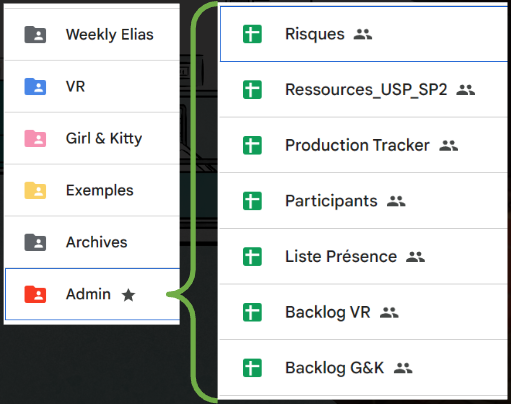
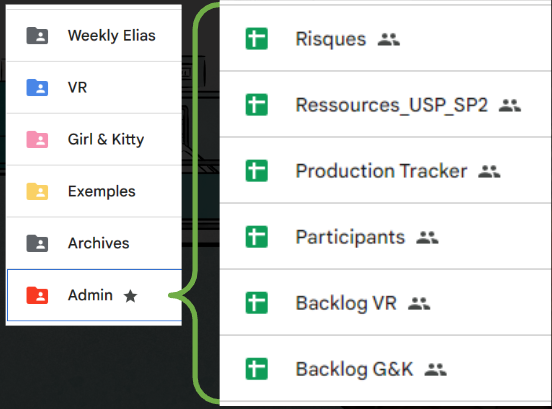
Update Prod. blog

diff --git a/_posts/2024-01-26-ProjectProducing.md b/_posts/2024-01-26-ProjectProducing.md
@@ -36,7 +36,7 @@ The organization chart is the following
 The hierarchy was layed out from left to right. The stakeholders to whom we were accountable are placed on the left. Since I was producer, I was responsible for presenting the work done by the teams to them. Then, for each project, a product owner was nominated per project to follow the work and define the tasks according to the general objectives previously defined. The programmers were dispatched on the two projects according to necessities. The game artists were assigned to one project or the other. For the audio engineering section, we had two leads that would organize and dispatch work for both projects.
 
 
-## Production Tools
+## Production tools
 This part of the blog is and overview and brief exposition of the tools we used for the game's production, it is categorized by domain.
 ### Programming tools
 #### Unreal Engine 5.3
@@ -77,7 +77,7 @@ I also had to create the accounts and everything related to user identification.
 Then, Fabian created a script to compress and send files to the NAS with a [cronjob](https://kubernetes.io/docs/concepts/workloads/controllers/cron-jobs/). The details of his implementation are explained [here](https://blog.stowy.ch/posts/devops-specialisation-projects/#backups).
 
 ### Audio tools
-#### Pro Tools
+#### Pro tools
 For the production of sounds, the audio section principally used [Pro tools](https://www.avid.com/pro-tools) and divers sound banks or personal recordings.
 #### Wwise
 To facilitate the integration to UnrealEngine they used [Wwise](https://www.audiokinetic.com/en/products/wwise/) and, since we couldn't have perforce, transmitted their work to us with a USB key.
@@ -113,9 +113,11 @@ For the project VR, the artists used [Substance Painter](https://www.adobe.com/p
 
 For the project Girl & Kitty, the texturing was done in Unreal Engine 5, for more information about that process you can read the blog post made about it [here](https://sstyles93.github.io/blog/posts/UnrealStylizedShaders/#contextualization)
 
-## Organization Tools
+## Organization tools
 This part is and overview and exposition of the tools we used for the project's organization.
-### Google Drive
+### Google drive
+Since the project was established with approximately 30 people, we had to be able to all access and exchange files. For that reason we used Google Drive. Since it was a major "tool" we used, I wanted to expose its structure and content.
+
 #### Weekly
 One of the utilities of having a common drive was to store google slides. Since every week I had to present the general improvements done on the project, it was useful to be able to store our slides in a common folder. In general the product owners or myself were responsible for their creation.
 
@@ -128,33 +130,69 @@ Each project had its own folder with diverse documents inside. Going from techni
 
 ![]({{ site.baseurl }}/assets/images/projectproducing/VR_Folder.PNG "VR Folder and content"){: width="100%"} _VR Folder and content_ | ![]({{ site.baseurl }}/assets/images/projectproducing/GK_Folder.PNG "GK Folder and content"){: width="100%"} _GK Folder and content_
 
-#### Example Folder & Archives 
+#### Example folder & archives 
 These folder contained all the documents received from William Marié to help us organize the production, pitch examples we used as references and all documents that were outdated.
 
 ![]({{ site.baseurl }}/assets/images/projectproducing/Example_Folder.PNG "Example Folder"){: width="100%"} _Example Folder_ | ![]({{ site.baseurl }}/assets/images/projectproducing/Archives_Folder.PNG "Archives Folder"){: width="100%"} _Archives Folder_
 
 #### Admin folder
-This folder was probably the most used by the product owners and myself. It contained all the documents related to the two projects and their
+This folder was probably the most used by the product owners and myself. It contained all the documents related to the two projects and their management.
 
 ![]({{ site.baseurl }}/assets/images/projectproducing/Admin_Folder.PNG "Admin Folder"){: width="100%"} _Admin Folder_
 
+The different documents were the following:
+- Risks: Potential problems we could have encountered and the way we could ideally fix them.
+- Resources: A spreadsheet where team members could input their availability.
+- Production Tracker: Principally use by myself to set the milestones and global tasks.
+- Participants: A list of the team members and their contact information.
+- Backlog VR and G&K: The task tracker sheets we used to try and improve productivity over time.
+
 ### Trello
 
-[Trello](https://trello.com/en)
+[Trello](https://trello.com/en) was one of the tools we used as a task tracker. We had three board, one per project and an administrative.
 
 ![]({{ site.baseurl }}/assets/images/projectproducing/Trello_general.PNG "Trello workspaces"){: width="100%"} _Trello workspaces_
 
+These boards were, at the beginning used by everyone. We had made categories to sort the different stages of work:
+- Backlog: The work that was emitted by a product owner but not yet assigned.
+- Todo: the task that were assigned and had to be done.
+- In Progress: the assigned tasks currently being done.
+- Validation: Used for the fulfilled tasks that had to be review by the leads, product owners, producer or heads of department.
+- Done: The task that were officially finished
+
+Once the process was done and a task had effectively been validated, it was generally updated on the different Backlogs and stored in the Trello archives.
+
 ![]({{ site.baseurl }}/assets/images/projectproducing/Trello_board.PNG "Trello G&K board"){: width="100%"} _Trello Girl and Kitty board_
+
+At the beginning we all used trello but in the end, the game artists and sound engineers found it more convenient to use an Excels list (see [Project folders](#project-folders)).
 
 ### Miro
 
-[Miro](https://miro.com/)
+[Miro](https://miro.com/) was tool we used to design and do brainstorming. We had three boards, one per project and one for administrative work. 
 
 ![]({{ site.baseurl }}/assets/images/projectproducing/Miro_workspaces.PNG "Miro workspaces"){: width="100%"} _Miro workspaces_
 
+Since it is an online broadcasted whiteboard, we could all work together: draw, write and expose our ideas in a more graphical way.
+
+![]({{ site.baseurl }}/assets/images/projectproducing/Miro_board.PNG "Miro VR board"){: width="100%"} _Miro VR board_
+
+It ended up being really useful when designing the game flow, mechanics and enigma ideas.
+
 ### Discord
+To communicate on a more daily basis we used [discord](https://discord.com/).
 
 ![]({{ site.baseurl }}/assets/images/projectproducing/Discord.PNG "Projects Discord"){: width="100%"} _Projects Discord_
+
+The different canal created where the following:
+- General: for general notifications about the projects.
+- Administrative: to expose administrative decisions.
+- PV: stands for "Procès-Verbal", verbal process, where we posted transcripts of meetings.
+- Department canals (prog/audio): for specific information relative to a department.
+- stand-up: to keep track of the different action points emitted during project meetings.
+- Weekly-images: canal used to expose current state of work and advancement of tasks with a more visual impact.
+- General: a vocal canal used for general meetings.
+
+We also had specific canals for each project: general, artistic-refs, gameplay-refs and a vocal room for meetings.
 
 ## The process
 
